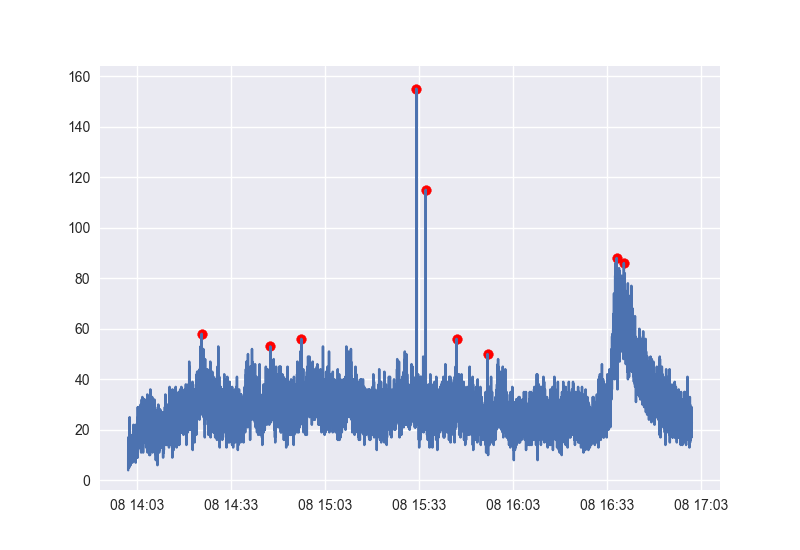
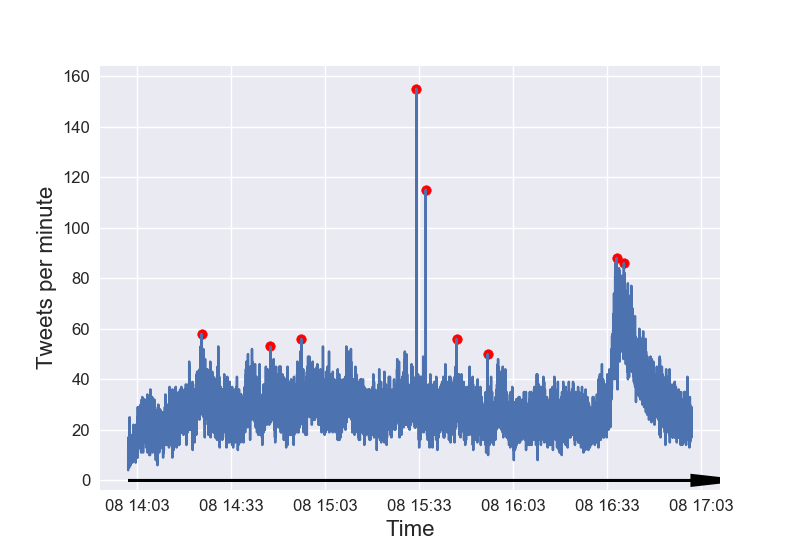
Changes mostly to output styles.

diff --git a/flaskapp/flaskexample/templates/whats_missed_output.html b/flaskapp/flaskexample/templates/whats_missed_output.html
@@ -40,7 +40,9 @@
 <br><br>
  <div class="container">
     <div class="starter-template">
-        <h2>What Did I Miss?</h2>
+        <h2><span style = "color: #c70039">No</span>
+            FOMO</h2>
+            <h3>Twitter Timeline for {{ hashtag }}</h3>
     </div>
 
 
@@ -51,8 +53,9 @@
 
     <div class="container">
       <div class="starter-template">
-        <h3>Tweet stream through time</h3>
-          <img src={{ ntweet_plot }} width="500">
+          <img src={{ ntweet_plot }} style="float: left; width: 40%; margin-right: 1%; margin-bottom: 0.5em;">
+          <img src={{ timeline_plot }} style="float: left; width: 58%; margin-right: 1%; margin-bottom: 0.5em;">
+          <p style="clear: both;">
       </div>
     </div>
 
@@ -60,10 +63,6 @@
      </div><!-- /.container -->
 
     <div class="container">
-      <div class="starter-template">
-        <h3>Tweety timeline</h3>
-        <img src={{ timeline_plot }} width="500">
-      </div>
 
 
       <script src="https://code.jquery.com/jquery-1.10.2.min.js"></script>

diff --git a/flaskapp/flaskexample/templates/whats_missed_input.html b/flaskapp/flaskexample/templates/whats_missed_input.html
@@ -42,7 +42,9 @@
 <div class="container">
 
     <div class="starter-template">
-        <h2>What Did I Miss?</h2>
+        <h2>
+            <span style = "color: #c70039">No</span>
+            FOMO</h2>
         <p>Relive Excitement of Past Event through Tweets!</p>
     </div>
 

diff --git a/flaskapp/flaskexample/tweet_functions.py b/flaskapp/flaskexample/tweet_functions.py
@@ -9,6 +9,7 @@ import datetime
 import time
 import seaborn as sns
 import matplotlib.pyplot as plt
+import matplotlib as mpl
 import re
 import textrank
 import time
@@ -286,12 +287,14 @@ def plot_timeline(peak_vals, tweet_kw, resolution = 1000):
     """
     Plot timeline along with keywords.
     """
+    sns.set_style("white")
+    mpl.rcParams['axes.linewidth'] = 0
     plt.figure()
     text_alignment = {1: 'right', 0: 'left'}
     for i, kw in enumerate(tweet_kw):
         plt.plot([0, peak_vals[i] * (-1) ** i], [- 2 * i, - 2 * i], c='blue')
         plt.scatter(peak_vals[i] * (-1) ** i, - 2 * i, c='red')
-        plt.text(peak_vals[i] * (-1) ** i / 2, - 2 * i + 1, kw, fontdict={'size': 12},
+        plt.text(peak_vals[i] * (-1) ** i * 0.2, - 2 * i + 1, kw, fontdict={'size': 14},
                  horizontalalignment=text_alignment[i % 2])
     plt.plot([0, 0], [- 2 * i - 1, 1], c='black')
     plt.xticks([])
@@ -301,7 +304,7 @@ def plot_timeline(peak_vals, tweet_kw, resolution = 1000):
     plt.axis('tight')
 
     file_name = 'timeline.png'
[2 lines of base64/hex data omitted]
     plt.savefig(plotfile)
     return '../static/' + file_name
 
@@ -321,7 +324,7 @@ def plot_Ntweets(tweet_count, peak_time, peak_vals, resolution = 500):
 
     plt.scatter(peak_time, peak_vals, c = 'red')
     file_name = 'Ntweets.png'
[2 lines of base64/hex data omitted]
     plt.savefig(plotfile)
     return '../static/' + file_name
 

diff --git a/flaskapp/flaskexample/views.py b/flaskapp/flaskexample/views.py
@@ -24,4 +24,5 @@ def whats_missed_output():
   tweet_count, peak_time, peak_vals, tweet_kw = tweet.overall_analysis(hashtag, start_time, end_time)
   ntweet_plot = tweet.plot_Ntweets(tweet_count, peak_time, peak_vals)
   timeline_plot = tweet.plot_timeline(peak_vals, tweet_kw)
-  return render_template("whats_missed_output.html", ntweet_plot = ntweet_plot, timeline_plot = timeline_plot)
+  return render_template("whats_missed_output.html", hashtag = hashtag, ntweet_plot = ntweet_plot,
+                         timeline_plot = timeline_plot)
